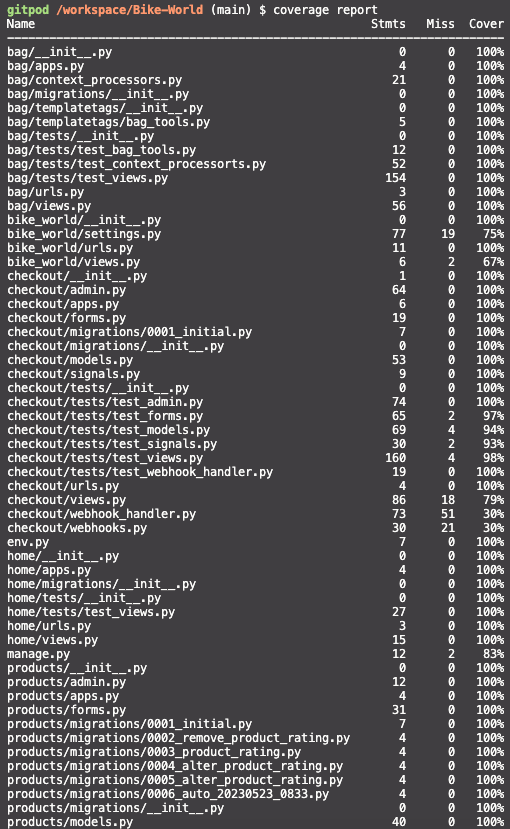
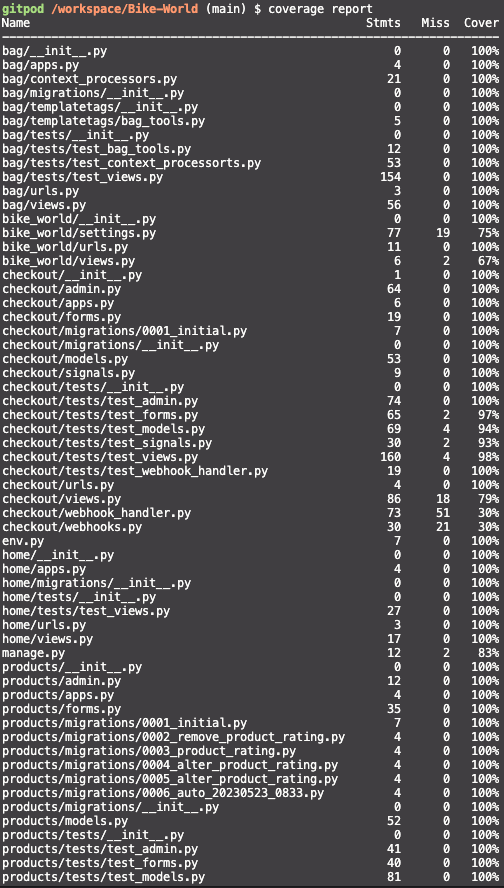
refactor: Update coverage report in automated testing since number of tests increased

Changed region(s): [[0.0, 0.0, 1.0, 1.0], [0.506, 0.5127, 0.5357, 0.573], [0.3571, 0.6936, 0.3869, 0.7238]]

diff --git a/TESTING.md b/TESTING.md
@@ -44,7 +44,7 @@ The original Google sheet file for the test case report can be found [here](http
 
 Python **Automated Unit Testing** was implemented using the [Django Unit Testing](https://docs.djangoproject.com/en/3.2/topics/testing/overview/) framework.  
 **Unit Tests** have been written to cover all major parts of the code like **Forms**, **Models**, **Views**, **Admin**, **Context-Processors** and **Fields**. The tests were created to cover all key aspects of the code. Only the checkout app has a moderate coverage, but here manual testing was applied.
-A total of **230** **Unit Tests** have been written. All **230** tests ran successfully without errors or warnings.   
+A total of **232** **Unit Tests** have been written. All **232** tests ran successfully without errors or warnings.   
 
 <details>
     <summary>Coverage Automated Testing</summary>
